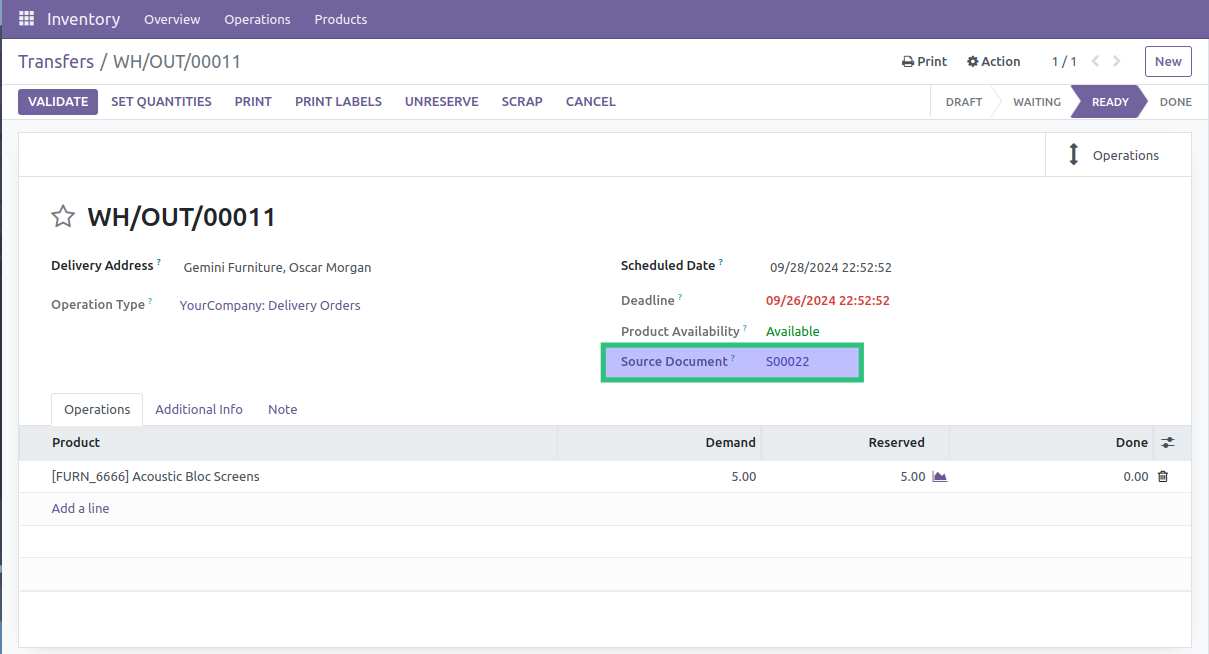
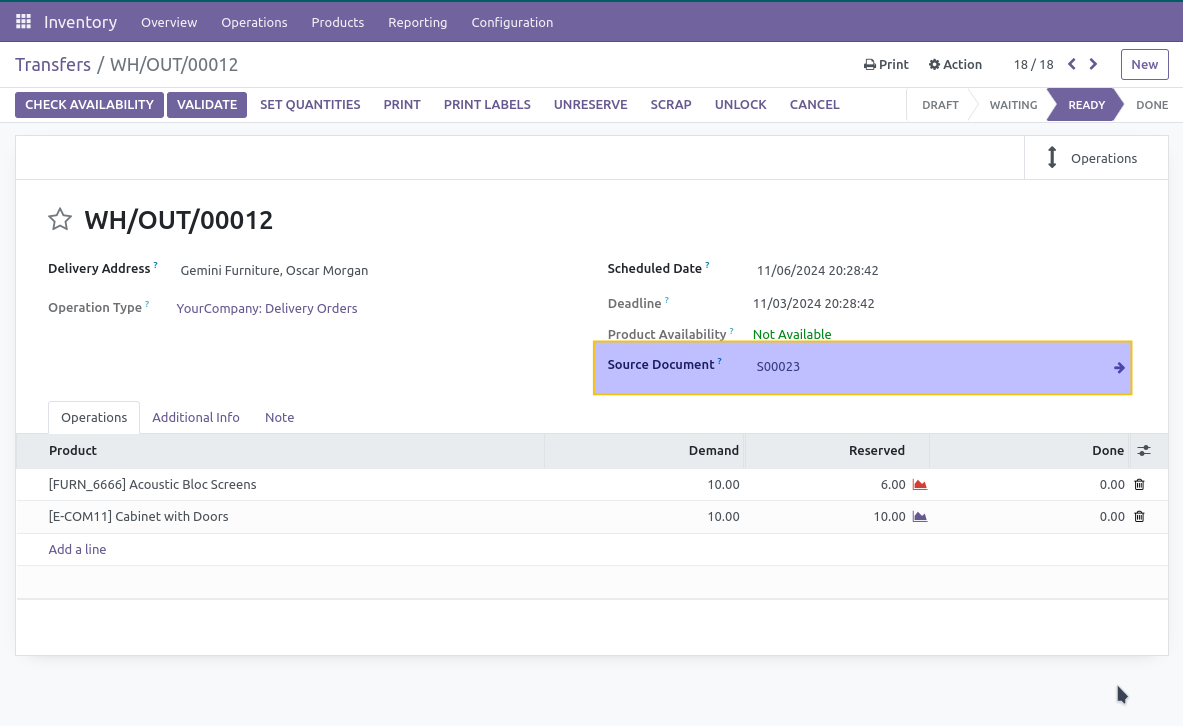
TA#66873 [IMP][16.0] stock_move_origin_link (#192)

diff --git a/stock_move_origin_link/static/src/char_field.js b/stock_move_origin_link/static/src/char_field.js
@@ -73,7 +73,6 @@ patch(CharField.prototype, 'stock_move_origin_link_charfield', {
                 const originUrl = originRecord ? `#id=${originRecord.id}&model=${originRecord.model}` : null;
                 this.props.originRecord = originRecord;
                 this.props.originUrl = originUrl;
-
                 if (originRecord) {
                     originCache.set(record.id, { record: originRecord, url: originUrl });
                 }

diff --git a/stock_move_origin_link/README.rst b/stock_move_origin_link/README.rst
@@ -15,10 +15,11 @@ form view of the production order.
 
 Stock Pickings
 --------------
-The feature is available for all stock picking list views.
+The feature is available for all stock picking list and form  views .
 Here is an example with the list view of delivery orders.
 
 .. image:: static/description/delivery_order_list.png
+    
 
 When clicking on `SO020`, the user is redirected to the sale order.
 
